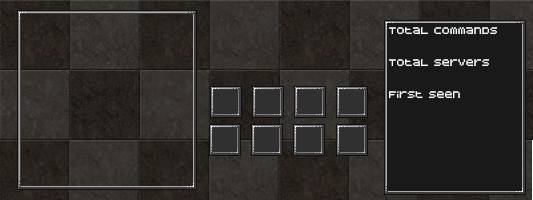
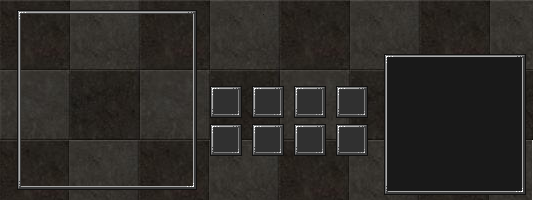
Finished !profile

diff --git a/commands/profile.js b/commands/profile.js
@@ -1,8 +1,9 @@
 const Discord = require('discord.js');
 const canvas = require('canvas');
+const dateFormat = require('dateformat');
 module.exports = {
-    name: "",
-    usage: "profile [@user]",
+    name: "User Profile",
+    usage: "profile help",
     categories: ["image", "fun"],
     rateLimit: 50,
     requiredPermissions: ["ATTACH_FILES"],
@@ -10,6 +11,7 @@ module.exports = {
     init: async function(bot){
 
         const bg = await canvas.loadImage("static/profile/background.png");
+        canvas.registerFont("static/profile/BITDUST1.TTF", {family: 'Bitdust'});
 
         bot.generateProfileImage = async function generateProfileImage(user){
 
@@ -38,9 +40,38 @@ module.exports = {
             ctx.font = "15px Sans serif";
             ctx.fillText(profileInfo.caption, 216, 56);
 
+            ctx.font = "12px Bitdust";
+            ctx.fillText("Total Commands", 388, 68);
+            ctx.fillText("Total Servers", 388, 108);
+            ctx.fillText("First Seen", 388, 148);
+
+
+            ctx.font = "14px Bitdust";
+            ctx.fillStyle = "green";
+
+            let mutualGuilds;
+            if(bot.client.shard){
+                let guildCollection = await bot.client.shard.broadcastEval(`
+                this.guilds.filter((guild)=>guild.members.has('${user.id}')).map((guild)=>guild.name);
+            `);
+                mutualGuilds = guildCollection.reduce((a,b)=>a.concat(b), []);
+            }else{
+                mutualGuilds = bot.client.guilds.filter((guild)=>guild.members.has(user.id)).map((guild)=>guild.name);
+            }
+
+            const commandCount = (await bot.database.getUserStats(user.id))[0].commandCount;
+
+            ctx.fillText(commandCount.toLocaleString(), 388, 83);
+
+            ctx.fillText(mutualGuilds.length, 388, 123);
+
+            ctx.fillText(dateFormat(profileInfo.firstSeen, "dd/mm/yy"), 388, 163);
+
+            await bot.updateCommandsBadge(user, commandCount);
+            await bot.updateServersBadge(user, mutualGuilds.length);
+
             const badges = await bot.database.getProfileBadges(user.id);
 
-            let row = 0;
             for(let i = 0; i < badges.length; i++){
                 const badge = badges[i];
                 const img = await canvas.loadImage("static/profile/badges/"+badge.image);
@@ -48,12 +79,71 @@ module.exports = {
             }
 
             return cnv.toBuffer("image/png");
-        }
+        };
+
+
+        bot.updateCommandsBadge = async function(user, commands){
+            if(commands >= 100 && commands < 1000 && !(await bot.database.hasBadge(user.id, 3)))
+                await bot.database.giveBadge(user.id, 3);
+
+            if(commands >= 1000 && !(await bot.database.hasBadge(user.id, 4))) {
+                await bot.database.removeBadge(user.id, 3);
+                await bot.database.giveBadge(user.id, 4);
+            }
+        };
+
+        bot.updateServersBadge = async function(user, servers){
+            if(servers >= 2 && servers < 4 && !(await bot.database.hasBadge(user.id, 7)))
+                await bot.database.giveBadge(user.id, 7);
+
+            if(servers >= 4 && servers < 10 && !(await bot.database.hasBadge(user.id, 10))) {
+                await bot.database.removeBadge(user.id, 7);
+                await bot.database.giveBadge(user.id, 10);
+            }
+
+            if(servers >= 10 && !(await bot.database.hasBadge(user.id, 11))){
+                await bot.database.removeBadge(user.id, 7);
+                await bot.database.removeBadge(user.id, 10);
+                await bot.database.giveBadge(user.id, 11);
+            }
+        };
     },
     run: async function(message, args, bot){
 
-        const attachment = new Discord.Attachment(await bot.generateProfileImage(message.author), "profile.png");
-        message.channel.send("", attachment);
+        if(args.length === 1 || message.mentions.users && message.mentions.users.size > 0){
+            const target = message.mentions.users.size > 0 ? message.mentions.users.first() : message.author;
+            message.channel.startTyping();
+            const attachment = new Discord.Attachment(await bot.generateProfileImage(target), "profile.png");
+            message.channel.send("", attachment);
+            message.channel.stopTyping();
+        }else if(args[1] === "help"){
+            message.channel.send(":information_source: Profile Help:\n!profile - Show your profile\n!profile @user - Show a users profile\n!profile badges - Badges explained\n!profile set - Customize profile");
+        }else if(args[1] === "badges"){
+            const result = await bot.database.getBadgeTypes();
+            let output = "Badges:\n";
+            for(let i = 0; i < result.length; i++){
+                const badge = result[i];
+                if((args[2] && args[2] === "all") || badge.display === 1)
+                    output += `${args[3] && args[3] === "ids" ? badge.id : ""}${badge.emoji} **${badge.name}** ${badge.desc}\n`;
+
+            }
+            message.channel.send(output);
+        }else if(args[1] === "set"){
+            if(!args[2]){
+                message.channel.send(":information_source: Profile Set:\n!profile set tagline <tagline>\n\n**More coming soon...**");
+            }else if (args[2] === "tagline" && args[3]){
+                const tagline = message.cleanContent.substring(message.cleanContent.indexOf(args[3]));
+                if(tagline.length >= 36){
+                    message.channel.send(":warning: Tagline must be 36 characters or less.");
+                }else{
+                    await bot.database.setProfileTagline(message.author.id, tagline);
+                    message.channel.send(`Tagline set to \`${tagline}\``);
+                }
+
+            }
+        }
+
+
 
     }
 };
